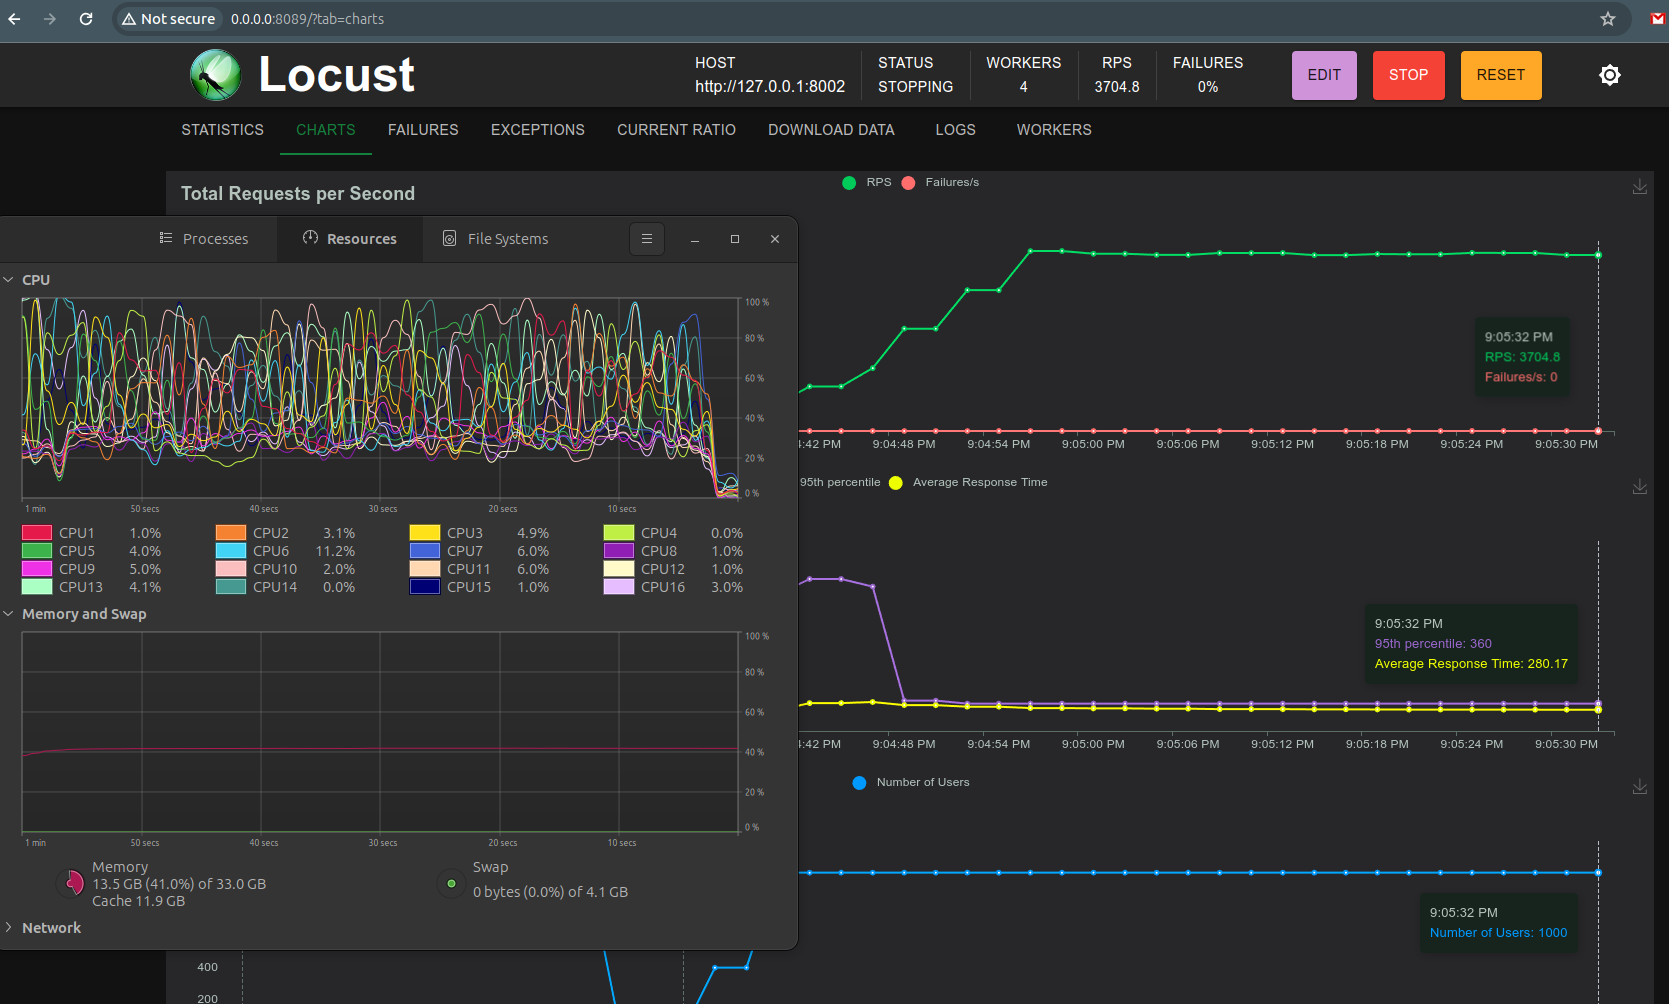
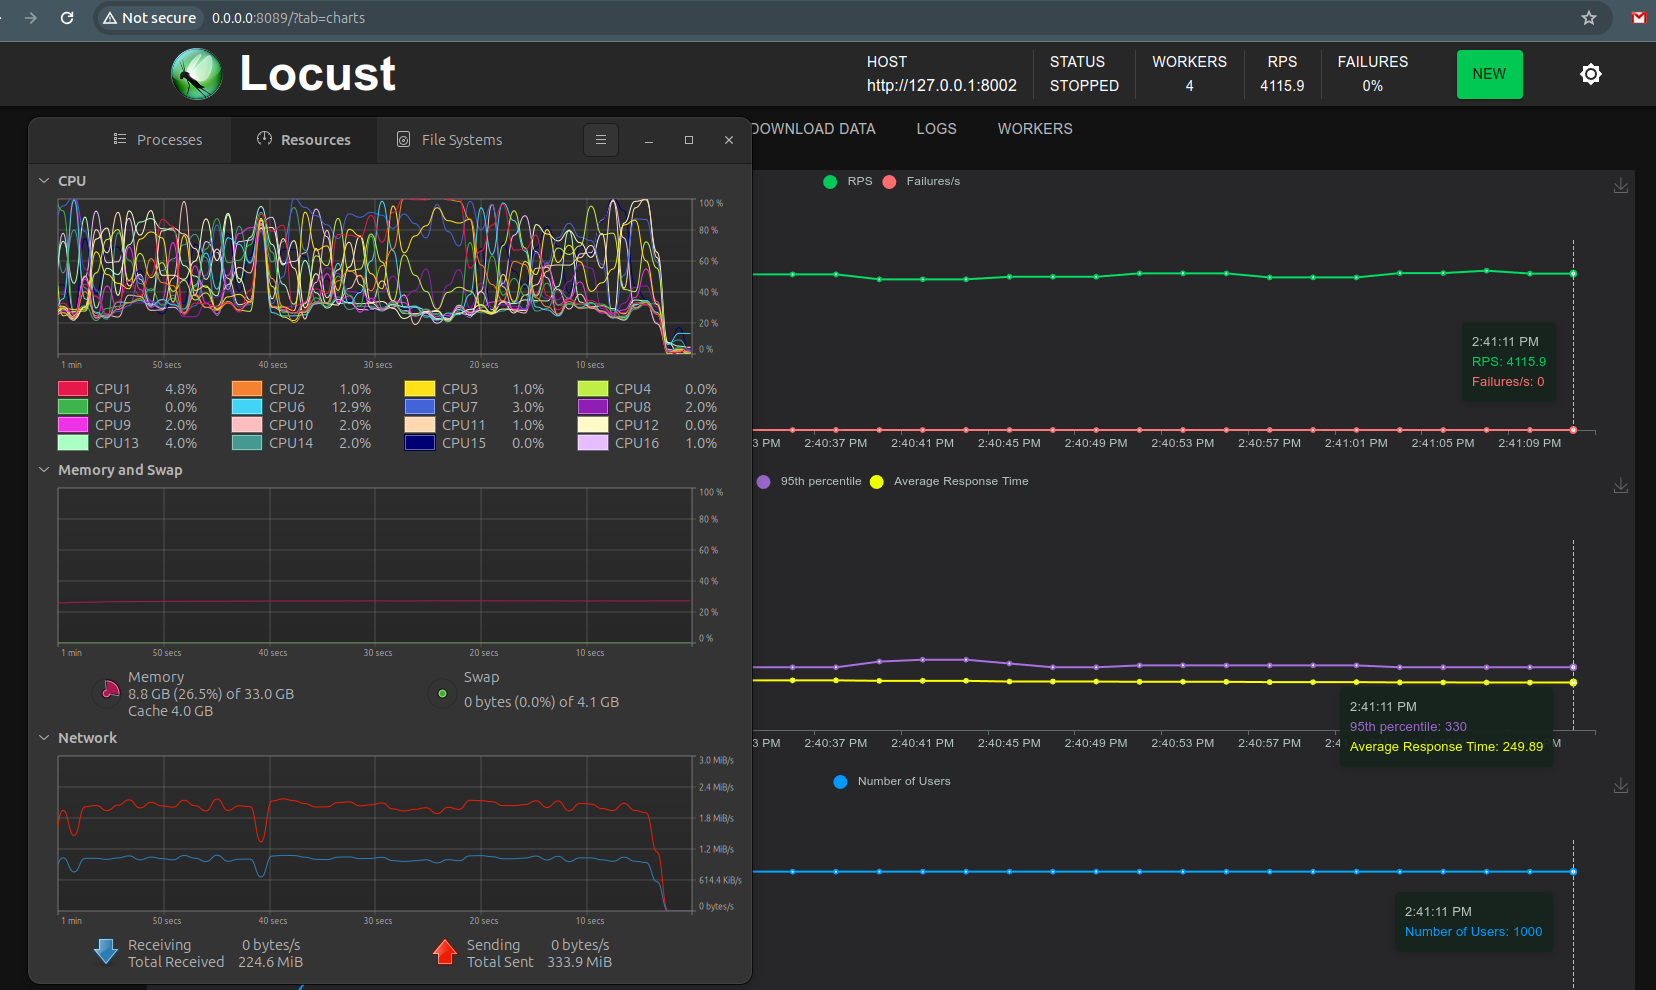
upd: FastAPI gunicorn config

diff --git a/server_start/gunicorn_fa.py b/server_start/gunicorn_fa.py
@@ -3,8 +3,8 @@ from uvicorn.workers import UvicornWorker
 
 class MyUvicornWorker(UvicornWorker):
     CONFIG_KWARGS = {
-        "loop": "asyncio",  # auto | asyncio | uvloop
-        "http": "h11",  # auto | h11 | httptools
+        "loop": "uvloop",  # auto | asyncio | uvloop
+        "http": "httptools",  # auto | h11 | httptools
         "lifespan": "off",
         "workers": 1,
         "interface": "asgi3",  # auto | asgi3 | asgi2 | wsgi
@@ -19,6 +19,5 @@ command = "./venv/bin/gunicorn"
 pythonpath = "."
 bind = ":8002"
 workers = 4
-# raw_env = "DJANGO_SETTINGS_MODULE=async_try.settings"
 errorlog = "./logs/gunicorn_fa.log"
-# max_requests = 100
+keepalive = 120
